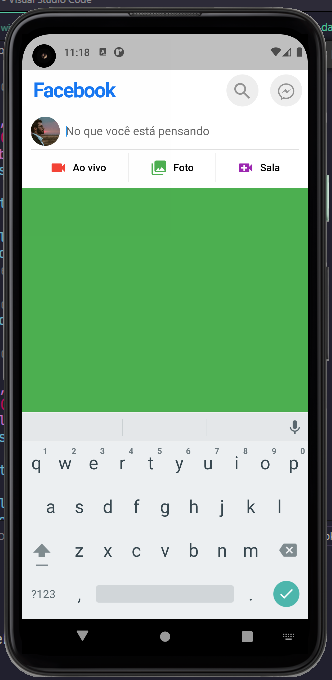
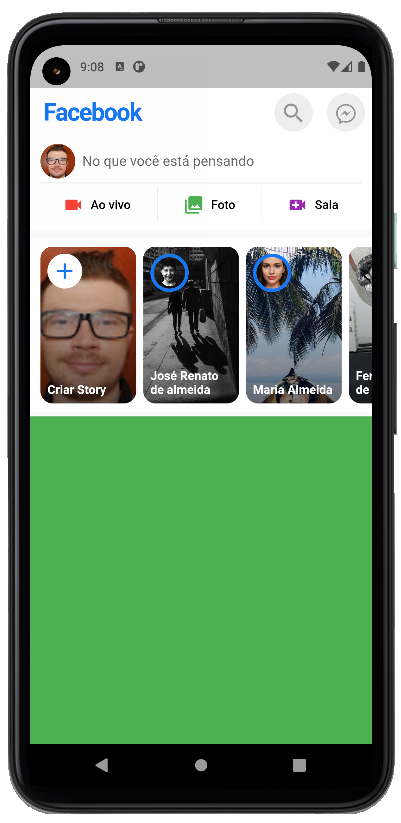
Inclusão da área de stories

diff --git a/lib/widgets/story.dart b/lib/widgets/story.dart
@@ -1,0 +1,127 @@
+import 'package:cached_network_image/cached_network_image.dart';
+import 'package:facebook/data/data.dart';
+import 'package:facebook/models/models.dart';
+import 'package:facebook/utils/palettes.dart';
+import 'package:facebook/widgets/profile_image.dart';
+import 'package:flutter/material.dart';
+
+class StoryArea extends StatelessWidget {
+  final User user;
+  final List<Story> stories;
+
+  const StoryArea({
+    required this.user,
+    required this.stories,
+    Key? key,
+  }) : super(key: key);
+
+  @override
+  Widget build(BuildContext context) {
+    return Container(
+      height: 200,
+      color: Colors.white,
+      child: ListView.builder(
+        padding: const EdgeInsets.symmetric(
+          horizontal: 8,
+          vertical: 10,
+        ),
+        scrollDirection: Axis.horizontal,
+        itemCount: 1 + stories.length,
+        itemBuilder: (context, index) {
+          if (index == 0) {
+            Story userStorie = Story(
+              user: userActual,
+              urlImage: userActual.urlImage,
+            );
+
+            return Padding(
+              padding: const EdgeInsets.symmetric(horizontal: 4),
+              child: StorieCard(story: userStorie, addStorie: true),
+            );
+          }
+
+          Story story = stories[index - 1];
+
+          return Padding(
+            padding: const EdgeInsets.symmetric(horizontal: 4),
+            child: StorieCard(story: story),
+          );
+        },
+      ),
+    );
+  }
+}
+
+class StorieCard extends StatelessWidget {
+  final Story story;
+  final bool addStorie;
+
+  const StorieCard({
+    required this.story,
+    this.addStorie = false,
+    Key? key,
+  }) : super(key: key);
+
+  @override
+  Widget build(BuildContext context) {
+    return Stack(
+      children: [
+        ClipRRect(
+          borderRadius: BorderRadius.circular(14),
+          child: CachedNetworkImage(
+            imageUrl: story.urlImage,
+            height: double.infinity,
+            width: 110,
+            fit: BoxFit.cover,
+          ),
+        ),
+        Container(
+          height: double.infinity,
+          width: 110,
+          decoration: BoxDecoration(
+            gradient: PalettesColors.storieDegrade,
+            borderRadius: BorderRadius.circular(14),
+          ),
+        ),
+        Positioned(
+          top: 8,
+          left: 8,
+          child: addStorie
+              ? Container(
+                  height: 40,
+                  width: 40,
+                  decoration: const BoxDecoration(
+                    color: Colors.white,
+                    shape: BoxShape.circle,
+                  ),
+                  child: IconButton(
+                    onPressed: () {},
+                    padding: EdgeInsets.zero,
+                    icon: const Icon(Icons.add),
+                    iconSize: 30,
+                    color: PalettesColors.blueFacebook,
+                  ),
+                )
+              : ProfileImage(
+                  urlImage: story.user.urlImage,
+                  visualized: story.visualized,
+                ),
+        ),
+        Positioned(
+          bottom: 8,
+          left: 8,
+          right: 8,
+          child: Text(
+            addStorie ? "Criar Story" : story.user.name,
+            style: const TextStyle(
+              fontWeight: FontWeight.bold,
+              color: Colors.white,
+            ),
+            maxLines: 2,
+            overflow: TextOverflow.ellipsis,
+          ),
+        ),
+      ],
+    );
+  }
+}

diff --git a/lib/data/data.dart b/lib/data/data.dart
@@ -9,14 +9,13 @@ import '../models/models.dart';
 * */
 
 /* Usuário Logado */
-// ignore: non_constant_identifier_names
-User UserActual = User(
-    name: "Jamilton Damasceno",
-    urlImage: "https://source.unsplash.com/EQFtEzJGERg/800x600");
+User userActual = User(
+    name: "Lucas Peixoto",
+    urlImage:
+        "https://lh3.googleusercontent.com/a-/AOh14Ghk0kzPqxBvQlkOUKpXj4NXGuWdZSyPz8YDSgSH=s96-c");
 
 /* Lista de usuários online */
-// ignore: non_constant_identifier_names
-List<User> UsersOnline = [
+List<User> usersOnline = [
   User(
       name: "José Renato de almeida",
       urlImage: "https://source.unsplash.com/UJLAMjEjISo/800x600"),
@@ -43,46 +42,39 @@ List<User> UsersOnline = [
       urlImage: "https://source.unsplash.com/9ChfwZzv4ys/800x600"),
 ];
 
-/* 
-
 /* Lista de estórias */
-List<Estoria> estorias = [
-  Estoria(
-      usuario: usuariosOnline[0],
-      urlImagem: "https://source.unsplash.com/JMWjOup32Fk/800x600",
-      foiVisualizado: true,
+List<Story> stories = [
+  Story(
+    user: usersOnline[0],
+    urlImage: "https://source.unsplash.com/JMWjOup32Fk/800x600",
+    visualized: true,
   ),
-  Estoria(
-      usuario: usuariosOnline[1],
-      urlImagem: "https://source.unsplash.com/no_TCkPUq_s/800x600",
-      foiVisualizado: true,
+  Story(
+    user: usersOnline[1],
+    urlImage: "https://source.unsplash.com/no_TCkPUq_s/800x600",
+    visualized: true,
   ),
-  Estoria(
-      usuario: usuariosOnline[2],
-      urlImagem: "https://source.unsplash.com/6dX5TPPM34M/800x600"
-  ),
-  Estoria(
-      usuario: usuariosOnline[3],
-      urlImagem: "https://source.unsplash.com/PO7CGnoDFUI/800x600"
-  ),
-  Estoria(
-      usuario: usuariosOnline[4],
-      urlImagem: "https://source.unsplash.com/rewyZqUwAqY/800x600"
-  ),
-  Estoria(
-      usuario: usuariosOnline[5],
-      urlImagem: "https://source.unsplash.com/1HpQU1evGK8/800x600"
-  ),
-  Estoria(
-      usuario: usuariosOnline[6],
-      urlImagem: "https://source.unsplash.com/W9z_628BBpc/800x600"
-  ),
-  Estoria(
-      usuario: usuariosOnline[7],
-      urlImagem: "https://source.unsplash.com/DOb-2jd0sbc/800x600"
-  ),
+  Story(
+      user: usersOnline[2],
+      urlImage: "https://source.unsplash.com/6dX5TPPM34M/800x600"),
+  Story(
+      user: usersOnline[3],
+      urlImage: "https://source.unsplash.com/PO7CGnoDFUI/800x600"),
+  Story(
+      user: usersOnline[4],
+      urlImage: "https://source.unsplash.com/rewyZqUwAqY/800x600"),
+  Story(
+      user: usersOnline[5],
+      urlImage: "https://source.unsplash.com/1HpQU1evGK8/800x600"),
+  Story(
+      user: usersOnline[6],
+      urlImage: "https://source.unsplash.com/W9z_628BBpc/800x600"),
+  Story(
+      user: usersOnline[7],
+      urlImage: "https://source.unsplash.com/DOb-2jd0sbc/800x600"),
 ];
 
+/* 
 /* Lista de postagens */
 List<Postagem> postagens = [
   Postagem(

diff --git a/lib/screens/home.dart b/lib/screens/home.dart
@@ -2,6 +2,7 @@ import 'package:facebook/data/data.dart';
 import 'package:facebook/utils/palettes.dart';
 import 'package:facebook/widgets/circle_button.dart';
 import 'package:facebook/widgets/post_area.dart';
+import 'package:facebook/widgets/story.dart';
 import 'package:flutter/material.dart';
 import 'package:line_icons/line_icons.dart';
 
@@ -45,7 +46,13 @@ class _HomeState extends State<Home> {
             ],
           ),
           SliverToBoxAdapter(
-            child: PostArea(user: UserActual),
+            child: PostArea(user: userActual),
+          ),
+          SliverPadding(
+            padding: const EdgeInsets.fromLTRB(0, 10, 0, 5),
+            sliver: SliverToBoxAdapter(
+              child: StoryArea(user: userActual, stories: stories),
+            ),
           ),
           SliverToBoxAdapter(
             child: Container(

diff --git a/lib/widgets/profile_image.dart b/lib/widgets/profile_image.dart
@@ -1,0 +1,27 @@
+import 'package:cached_network_image/cached_network_image.dart';
+import 'package:facebook/utils/palettes.dart';
+import 'package:flutter/material.dart';
+
+class ProfileImage extends StatelessWidget {
+  final String urlImage;
+  final bool visualized;
+
+  const ProfileImage({
+    Key? key,
+    required this.urlImage,
+    this.visualized = false,
+  }) : super(key: key);
+
+  @override
+  Widget build(BuildContext context) {
+    return CircleAvatar(
+      radius: 22,
+      backgroundColor: PalettesColors.blueFacebook,
+      child: CircleAvatar(
+        radius: visualized ? 18 : 22,
+        backgroundImage: CachedNetworkImageProvider(urlImage),
+        backgroundColor: Colors.grey[200],
+      ),
+    );
+  }
+}

diff --git a/lib/utils/palettes.dart b/lib/utils/palettes.dart
@@ -2,4 +2,10 @@ import 'package:flutter/material.dart';
 
 class PalettesColors {
   static const Color blueFacebook = Color(0xFF1777F2);
+
+  static const LinearGradient storieDegrade = LinearGradient(
+    begin: Alignment.topCenter,
+    end: Alignment.bottomCenter,
+    colors: [Colors.transparent, Colors.black54],
+  );
 }

diff --git a/lib/models/story.dart b/lib/models/story.dart
@@ -1,0 +1,15 @@
+import 'package:facebook/models/models.dart';
+
+class Story {
+  User user;
+  String urlImage;
+  bool visualized;
+
+  Story({
+    required this.user,
+    required this.urlImage,
+    this.visualized = false,
+  });
+
+  get imageUrl => null;
+}

diff --git a/lib/models/models.dart b/lib/models/models.dart
@@ -1,1 +1,2 @@
 export 'user.dart';
+export 'story.dart';
